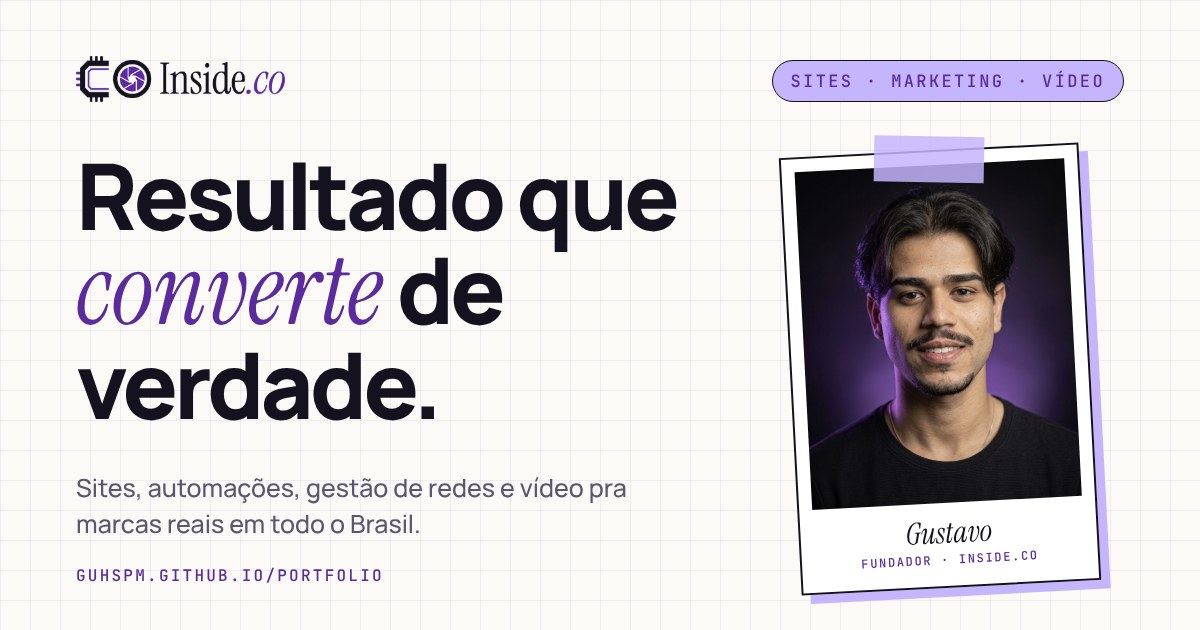
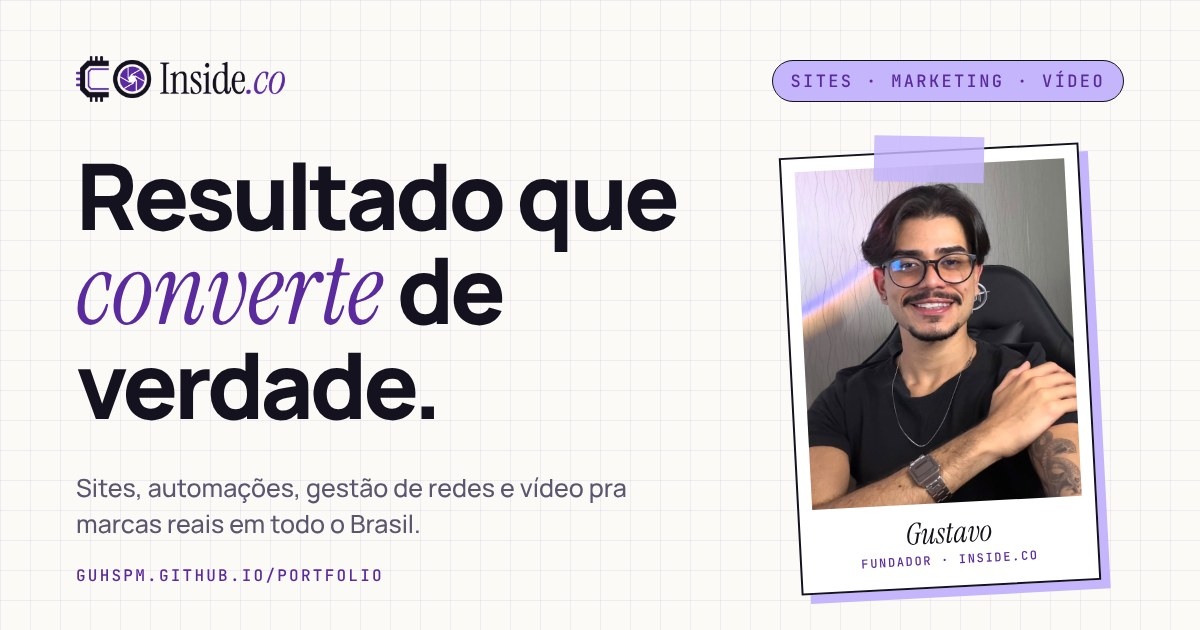
Corrige cases em destaque (setas e arrastar no celular) e troca a foto

Changed region(s): [[0.6475, 0.2413, 0.925, 0.8143]]

diff --git a/index.html b/index.html
@@ -379,6 +379,15 @@
         .nav-links a.is-active{color:var(--white);background:var(--purple);border-color:var(--ink);box-shadow:2px 2px 0 var(--lav)}
         .nav-links{gap:.6rem}
         @media(max-width:900px){footer{padding-bottom:4.8rem}}
+
+        /* NAVEGAÇÃO DOS CASES EM DESTAQUE */
+        .rotator-nav{display:flex;align-items:center;justify-content:center;gap:1rem;margin-top:1.3rem}
+        .rotator-nav .rotator-dots{margin-top:0;gap:.7rem}
+        .rotator-dots button{width:12px;height:12px;position:relative}
+        .rotator-dots button::after{content:'';position:absolute;inset:-9px}
+        .rot-arrow{width:42px;height:42px;border-radius:50%;border:1.5px solid var(--ink);background:var(--white);box-shadow:2px 2px 0 var(--lav);font-size:1.05rem;font-weight:800;color:var(--ink);cursor:pointer;display:flex;align-items:center;justify-content:center;transition:transform .15s,background .15s}
+        .rot-arrow:hover{background:var(--lav-soft);transform:translate(-1px,-1px)}
+        .feature-rotator{touch-action:pan-y}
     </style>
 </head>
 <body>
@@ -480,7 +489,7 @@
     </div>
     <figure class="polaroid reveal reveal-delay-2">
         <span class="tape"></span>
-        <img src="perfilgu.jpeg" alt="Gustavo" id="profilePhoto">
+        <img src="perfil-gustavo.jpg" alt="Gustavo" id="profilePhoto">
         <figcaption>Gustavo<span>Fundador · Inside.co</span></figcaption>
     </figure>
 </section>
@@ -633,6 +642,7 @@
                     <a href="https://memorieioficial.com.br/" target="_blank">Ver site ↗</a>
                 </div>
             </div>
+        </div>
         <div class="feature-slide" data-cat="marketing,sites">
             <div class="feature-visual is-logo" style="--f-bg:#1E2A8A">
                 <img src="lp-logo.png" alt="Logo da LP Barbearia" loading="lazy">
@@ -682,9 +692,8 @@
                 </div>
             </div>
         </div>
-        </div>
     </div>
-    <div class="rotator-dots" id="rotatorDots"></div>
+    <div class="rotator-nav"><button class="rot-arrow" id="rotPrev" type="button" aria-label="Case anterior">←</button><div class="rotator-dots" id="rotatorDots"></div><button class="rot-arrow" id="rotNext" type="button" aria-label="Próximo case">→</button></div>
 
     <div class="projects-grid">
 
@@ -1378,8 +1387,23 @@ if(photo)photo.onerror=()=>{photo.style.display='none';photo.parentElement.style
     }
     resetRotatorTimer();
     const rotatorEl=document.getElementById('projectRotator');
-    rotatorEl.addEventListener('mouseenter',()=>clearInterval(rotatorTimer));
-    rotatorEl.addEventListener('mouseleave',resetRotatorTimer);
+    function step(dir){
+        let n=idx,tries=0;
+        do{n=(n+dir+slides.length)%slides.length;tries++;}while(slides[n].dataset.hiddenByFilter==='1'&&tries<slides.length);
+        goToSlide(n);resetRotatorTimer();
+    }
+    document.getElementById('rotPrev').addEventListener('click',()=>step(-1));
+    document.getElementById('rotNext').addEventListener('click',()=>step(1));
+    rotatorEl.addEventListener('pointerenter',e=>{if(e.pointerType==='mouse')clearInterval(rotatorTimer);});
+    rotatorEl.addEventListener('pointerleave',e=>{if(e.pointerType==='mouse')resetRotatorTimer();});
+    let tx=null,ty=null;
+    rotatorEl.addEventListener('touchstart',e=>{tx=e.touches[0].clientX;ty=e.touches[0].clientY;},{passive:true});
+    rotatorEl.addEventListener('touchend',e=>{
+        if(tx===null)return;
+        const dx=e.changedTouches[0].clientX-tx,dy=e.changedTouches[0].clientY-ty;
+        if(Math.abs(dx)>40&&Math.abs(dx)>Math.abs(dy))step(dx<0?1:-1);
+        tx=null;
+    },{passive:true});
 })();
 
 /* PÍLULAS, MENU ATIVO E VOLTAR AO TOPO */
